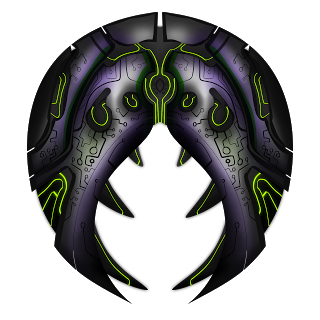
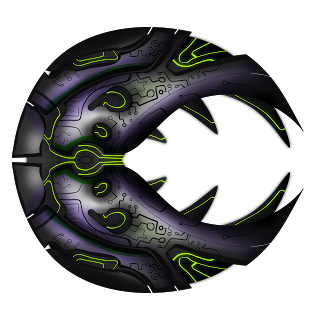
Change ship sprite

diff --git a/playership.cpp b/playership.cpp
@@ -8,7 +8,7 @@
 //=============================================================================
 // default constructor
 //=============================================================================
-Ship::Ship() : Entity()
+playership::playership() : Entity()
 {
     spriteData.width = shipNS::WIDTH;           // size of Ship1
     spriteData.height = shipNS::HEIGHT;
@@ -19,8 +19,8 @@ Ship::Ship() : Entity()
     velocity.x = 0;                             // velocity X
     velocity.y = 0;                             // velocity Y
     frameDelay = shipNS::SHIP_ANIMATION_DELAY;
-    startFrame = shipNS::SHIP1_START_FRAME;     // first frame of ship animation
-    endFrame     = shipNS::SHIP1_END_FRAME;     // last frame of ship animation
+    //startFrame = shipNS::SHIP1_START_FRAME;     // first frame of ship animation
+    //endFrame     = shipNS::SHIP1_END_FRAME;     // last frame of ship animation
     currentFrame = startFrame;
     radius = shipNS::WIDTH/2.0;
     //shieldOn = false;
@@ -28,13 +28,14 @@ Ship::Ship() : Entity()
     collisionType = entityNS::ROTATED_BOX;
 	healthcomponent.setmhealth(5);
 	healthcomponent.setchealth(healthcomponent.getmhealth());
+	spriteData.scale = 0.5;
 }
 
 //=============================================================================
 // Initialize the Ship.
 // Post: returns true if successful, false if failed
 //=============================================================================
-bool Ship::initialize(Game *gamePtr, int width, int height, int ncols,
+bool playership::initialize(Game *gamePtr, int width, int height, int ncols,
     TextureManager *textureM)
 {
     /*shield.initialize(gamePtr->getGraphics(), width, height, ncols, textureM);
@@ -48,7 +49,7 @@ bool Ship::initialize(Game *gamePtr, int width, int height, int ncols,
 //=============================================================================
 // draw the ship
 //=============================================================================
-void Ship::draw()
+void playership::draw()
 {
     Image::draw();              // draw ship
     //if(shieldOn)
@@ -61,7 +62,7 @@ void Ship::draw()
 // typically called once per frame
 // frameTime is used to regulate the speed of movement and animation
 //=============================================================================
-void Ship::update(float frameTime)
+void playership::update(float frameTime)
 {
     Entity::update(frameTime);
 	healthcomponent.update();

diff --git a/spacewar.cpp b/spacewar.cpp
@@ -28,7 +28,8 @@ Spacewar::~Spacewar()
 void Spacewar::initialize(HWND hwnd)
 {
     Game::initialize(hwnd); // throws GameError
-
+	if (!playershipTextures.initialize(graphics, SHIP_IMAGE))
+		throw(GameError(gameErrorNS::FATAL_ERROR, "Error initializing characters textures"));
     // nebula texture
     if (!nebulaTexture.initialize(graphics,NEBULA_IMAGE))
         throw(GameError(gameErrorNS::FATAL_ERROR, "Error initializing nebula texture"));
@@ -46,12 +47,12 @@ void Spacewar::initialize(HWND hwnd)
         //throw(GameError(gameErrorNS::FATAL_ERROR, "Error initializing planet"));
 
     // ship
-    if (!ship1.initialize(this, shipNS::WIDTH, shipNS::HEIGHT, shipNS::TEXTURE_COLS, &gameTextures))
+    if (!playership1.initialize(this, shipNS::WIDTH, shipNS::HEIGHT, 0, &playershipTextures))
         throw(GameError(gameErrorNS::FATAL_ERROR, "Error initializing ship1"));
-    ship1.setFrames(shipNS::SHIP1_START_FRAME, shipNS::SHIP1_END_FRAME);
-    ship1.setCurrentFrame(shipNS::SHIP1_START_FRAME);
-    ship1.setX(GAME_WIDTH/4);
-    ship1.setY(GAME_HEIGHT/4);
+	//playership1.setFrames(shipNS::SHIP1_START_FRAME, shipNS::SHIP1_END_FRAME);
+	playership1.setCurrentFrame(shipNS::SHIP1_START_FRAME);
+	playership1.setX(GAME_WIDTH/4);
+	playership1.setY(GAME_HEIGHT/4);
     //ship1.setVelocity(VECTOR2(shipNS::SPEED,-shipNS::SPEED)); // VECTOR2(X, Y)
     // ship2
     
@@ -64,8 +65,8 @@ void Spacewar::initialize(HWND hwnd)
 //=============================================================================
 void Spacewar::update()
 {
-    planet.update(frameTime);
-    ship1.update(frameTime);
+    //planet.update(frameTime);
+	playership1.update(frameTime);
 }
 
 //=============================================================================
@@ -109,8 +110,8 @@ void Spacewar::render()
 
     nebula.draw();                          // add the orion nebula to the scene
     planet.draw();                          // add the planet to the scene
-    ship1.draw();                           // add the spaceship to the scene
-    ship2.draw();                           // add the spaceship to the scene
+    playership1.draw();                           // add the spaceship to the scene
+    //ship2.draw();                           // add the spaceship to the scene
 
     graphics->spriteEnd();                  // end drawing sprites
 }

diff --git a/playership.h b/playership.h
@@ -3,8 +3,8 @@
 // Charles Kelly
 // Chapter 6 ship.h v1.0
 
-#ifndef _SHIP_H                 // Prevent multiple definitions if this 
-#define _SHIP_H                 // file is included in more than one place
+#ifndef _PLAYERSHIP_H                 // Prevent multiple definitions if this 
+#define _PLAYERSHIP_H                 // file is included in more than one place
 #define WIN32_LEAN_AND_MEAN
 
 #include "entity.h"
@@ -16,8 +16,8 @@
 using namespace std;
 namespace shipNS
 {
-    const int WIDTH = 32;                   // image width
-    const int HEIGHT = 32;                  // image height
+    const int WIDTH = 320;                   // image width
+    const int HEIGHT = 320;                  // image height
     const int X = GAME_WIDTH/2 - WIDTH/2;   // location on screen
     const int Y = GAME_HEIGHT/2 - HEIGHT/2;
     const float ROTATION_RATE = (float)2*PI; // radians per second
@@ -25,7 +25,7 @@ namespace shipNS
 	const float MAXSPEED = 50;
 	const float MINSPEED = -50;
     const float MASS = 300.0f;              // mass
-    const int   TEXTURE_COLS = 8;           // texture has 8 columns
+    const int   TEXTURE_COLS = 1;           // texture has 8 columns
     const int   SHIP1_START_FRAME = 0;      // ship1 starts at frame 0
     const int   SHIP1_END_FRAME = 3;        // ship1 animation frames 0,1,2,3
     const int   SHIP2_START_FRAME = 8;      // ship2 starts at frame 8
@@ -34,10 +34,11 @@ namespace shipNS
     const int   SHIELD_START_FRAME = 24;    // shield start frame
     const int   SHIELD_END_FRAME = 27;      // shield end frame
     const float SHIELD_ANIMATION_DELAY = 0.1f; // time between frames
+	
 }
 
 // inherits from Entity class
-class Ship : public Entity
+class playership : public Entity
 {
 private:
 	MovementComponent movecomponent;
@@ -48,7 +49,7 @@ private:
     //Image   shield;
 public:
     // constructor
-    Ship();
+	playership();
 
     // inherited member functions
     virtual void draw();

diff --git a/spacewar.h b/spacewar.h
@@ -22,7 +22,8 @@ private:
     // game items
     TextureManager nebulaTexture;   // nebula texture
     TextureManager gameTextures;    // game texture
-    Ship    ship1, ship2;           // spaceships
+	TextureManager playershipTextures;
+    playership    playership1;           // spaceships
     Planet  planet;         // the planet
     Image   nebula;         // backdrop image
 
